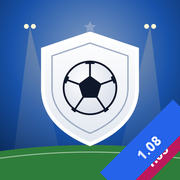
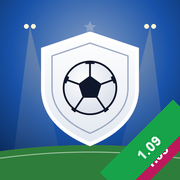
1.09

Changed region(s): [[0.5556, 0.5556, 1.0, 1.0]]

diff --git a/js/match.js b/js/match.js
@@ -92,7 +92,7 @@
     const home = M.my === 0;
     host().innerHTML = `<div class="pre"><div class="prehd"><small>${label(f)} · ${w[0]} ${w[1]} · 👥 ${M.att.toLocaleString()}</small>
         <div class="vsrow"><div>${C.crestSVG(col.c1, col.c2, col.abbr.slice(0, 2), 54)}<b>${C.esc(col.short)}</b><small>${home ? 'Home' : 'Away'}</small></div><span class="vsx">VS${(k => `<em class="rtcmp ${k.c}">${k.me} v ${oppT.rating}<br>${k.w}</em>`)(C.rateCmp(oppT.rating))}</span><div>${C.crestSVG(oppT.c1, oppT.c2, oppT.abbr.slice(0, 2), 54)}<b>${C.esc(oppT.name)}</b><small>${C.table()[0].p ? C.ord(C.table().findIndex(x => x.i === (home ? f.a : f.h)) + 1) + ' in table' : 'Season opener'}</small></div></div>
-        <div class="radio">${C.radioLine && C.radioLine(f) ? C.radioLine(f) : `📻 K${col.abbr} campus radio with Duane &amp; Bev`}</div></div>${C.bigMatchHTML ? C.bigMatchHTML(f) : ''}
+        <div class="radio">${C.radioLine && C.radioLine(f) ? C.radioLine(f) : `📻 K${col.abbr} campus radio with Duane &amp; Bev`}</div></div>${C.bigMatchHTML ? C.bigMatchHTML(f) : ''}${C.scoutHTML ? C.scoutHTML(f) : ''}
       ${xs.filter(p => p.energy < 50).length ? `<div class="tiredw">⚠ ${xs.filter(p => p.energy < 50).length} of your XI are under 50% Freshness (avg ${avgE}%). Rest them this match, or <button class="btn sm2 pri" data-act="rejuv">🧴 Rejuvenate</button></div>` : ''}
       <div class="lus"><div><h4>${t.form} · ${C.MENTALITY[t.ment]}</h4>${mineRows}</div><div><h4>${M.opp.form}</h4>${oppRows}</div></div>
       <div class="prebtns"><button class="btn sec2" data-act="mtac"><i class="xoi"></i> Tactics</button><button class="btn sec2" data-act="mquick">⏩ Quick result</button><button class="btn sec2" data-act="mleave">✕</button></div>
@@ -121,7 +121,7 @@
     C.simToEnd(M.m); finishUI();
   };
   // the same options for watched and quick matches, so both give the same result; the game profile follows the career (men's or women's)
-  function matchOpts() { return { knockout: !!M.f.ko, managedPens: true, gender: C.car().gender, trace: !!M.debug, med: [C.level('med') * (M.my === 0 ? 1 : 0), C.level('med') * (M.my === 1 ? 1 : 0)], edge: M.my === 1 ? .04 * (1 - C.travelCut(C.eff('transport')) / 100) : .04 }; }
+  function matchOpts() { return { knockout: !!M.f.ko, managedPens: true, gender: C.car().gender, trace: !!M.debug, med: [C.level('med') * (M.my === 0 ? 1 : 0), C.level('med') * (M.my === 1 ? 1 : 0)], edge: M.my === 1 ? .04 * (1 - C.travelCut(C.eff('transport')) / 100) : (1 + .2 * C.eff('stadium')) / 100 }; }   // 1.09: the Stadium's home advantage, by level
   function rate() { const m = M.m, b = m.ball, my = M.my; const near = Math.min(b.y, PL - b.y) < 30 || (b.fl && b.fl.type !== 'pass');
     return M.speed === .25 ? 1 : M.speed === 1 ? (near ? 2.3 : 5.5) : M.speed === 5 ? 17 : 34; }
   function loop(now) {
@@ -182,7 +182,7 @@
   C.redForm = f => { C.reshape(M.m, M.my, f); M.redOff = -1; C.$$('.rcf button').forEach(b => b.classList.toggle('pri', b.dataset.v === f)); const n = C.$('#rpitch'); if (n) n.innerHTML = C.livePitchSVG(M.my, -1); };
   C.redGo = () => { const n = C.$('#redc'); if (n) n.remove(); M.playing = true; };
   function say(t) { if (!t) return; const n = C.$('#tick'); if (n) { n.textContent = t; n.classList.remove('tpop'); void n.offsetWidth; n.classList.add('tpop'); } }
-  function feed(e) { const n = C.$('#mfeed'); if (!n) return; const ic = { goal: '⚽', yellow: '🟨', red: '🟥', injury: '🩹', sub: '🔁', penalty: '🎯' }[e.type];
+  function feed(e) { if (e.type === 'sub') updPend(); const n = C.$('#mfeed'); if (!n) return; const ic = { goal: '⚽', yellow: '🟨', red: '🟥', injury: '🩹', sub: '🔁', penalty: '🎯' }[e.type];
     const who = e.who ? C.sn(e.who.p) : '', mine = e.side === M.my;
     const txt = `${C.esc(who)}${e.type === 'sub' && e.extra && e.extra.off ? ' for ' + C.esc(e.extra.off.p.ln) : ''}`;   // 1.06 (QA-77): home on the left, away on the right (as the score bar)
     n.insertAdjacentHTML('afterbegin', e.side === 1 ? `<div class="r ${mine ? 'me' : ''}">${txt} ${ic} <b>${e.min}'</b></div>` : `<div class="${mine ? 'me' : ''}"><b>${e.min}'</b> ${ic} ${txt}</div>`); }
@@ -207,7 +207,7 @@
       <div class="pitchw"><canvas id="pitch"></canvas></div><div class="tick" id="tick"></div>
       <div class="mkey"><span>${sw(K[M.my])} <b>${C.esc(T[M.my].short)}</b> (you) <span id="mdir">attack ▲</span></span><span>${sw(K[1 - M.my])} ${C.esc(T[1 - M.my].short)}</span></div>
       <div class="spd spd9"><button class="mplay ${M.playing ? '' : 'paused'}" data-act="mpause" id="mpz" aria-label="Play or pause">${M.playing ? '⏸' : '▶'}</button>${[[.25, '1×'], [1, '5×'], [5, '10×'], [10, '20×']].map(([v, n]) => `<button class="${M.speed === v ? 'on' : ''}" data-act="mspeed" data-v="${v}">${n}</button>`).join('')}<button class="anl ${M.debug ? 'on' : ''}" data-act="mdebug" title="Show passes, shots and lines"><svg viewBox="0 0 24 24" width="18" height="18"><path d="M4 19V5M4 19h16" stroke="#fff" stroke-width="2" stroke-linecap="round"/><path d="M7 15l4-5 3 3 5-6" fill="none" stroke="#22d3ee" stroke-width="2.4" stroke-linecap="round" stroke-linejoin="round"/></svg><small>Analysis</small></button><button data-act="mskip" data-v="ht" ${m.half > 1 ? 'disabled' : ''}>⏭ HT</button><button data-act="mskip" data-v="ft">⏭ FT</button></div>
-      <div class="mbtns9"><button class="btn sm2" data-act="msubs">🔁 Subs</button><button class="btn sm2" data-act="mment"><i class="xoi"></i> Plan</button></div><div class="mfeed" id="mfeed"></div><div class="mcd" id="mcd"></div>
+      <div id="subpend">${C.pendingSubsHTML ? C.pendingSubsHTML(M.m) : ''}</div><div class="mbtns9"><button class="btn sm2" data-act="msubs">🔁 Subs</button><button class="btn sm2" data-act="mment"><i class="xoi"></i> Plan</button></div><div class="mfeed" id="mfeed"></div><div class="mcd" id="mcd"></div>
       <div class="pend" id="mpend"></div></div>`;
     sizeCanvas();
   }
@@ -309,6 +309,9 @@
 
   // ---------- substitutions (Q20f) ----------
   C.openSubs = (hurtE) => { if (M.playing && !M.m.ht) M.resumeAfter = true; M.playing = false; M.pickOut = hurtE ? M.m.ents.indexOf(hurtE) : null; C.ui.open('Substitutions', () => subsHTML(hurtE)); };
+  C.matchMySide = () => M ? M.my : 0;
+  const updPend = () => { const n = C.$('#subpend'); if (n && M && M.m) n.innerHTML = C.pendingSubsHTML ? C.pendingSubsHTML(M.m) : ''; };
+  C.subCancel = i => { if (!M || !M.m) return; M.m.pending.splice(i, 1); updPend(); C.ui.refresh(); C.toast('Sub cancelled'); };
   function subsHTML(hurtE) {
     const m = M.m, my = M.my, T = m.teams[my], on = m.ents.filter(e => e.side === my && e.on);
     const pool = T.bench.concat(m.ents.filter(e => e.side === my && !e.on && !e.red && !e.injured).map(e => e.p)).filter((p, i, a) => a.indexOf(p) === i && C.canBringOn(m, my, p) && !m.pending.some(s => s.inP === p));
@@ -319,13 +322,13 @@
     else { const pos = out.slot.pos, ranked = pool.map(p => [p, C.fit(p, pos) * 100 + p.rating + p.energy / 10]).sort((a, b) => b[1] - a[1]);
       body = `<div class="subout"><span>Coming off</span><b>${C.esc(out.p.fn)} ${C.esc(out.p.ln)}</b><span class="pchip" style="background:var(--school)">${pos}</span><button class="btn sm2 sec2" data-act="msout" data-v="">Change</button></div>
         <label class="fld">2. Who comes on at ${pos}?</label>` + (ranked.length ? ranked.map(([p], i) => row(p, 'msin', p.id, `<span class="pchip" style="background:${FIT[C.fit(p, pos)]}">${p.pos}</span> ${C.FITLABEL[C.fit(p, pos)]} at ${pos} · 🔋 ${Math.round(p.energy)}%`, i < 2 && C.fit(p, pos) >= 3)).join('') : '<p class="note">Nobody left on the bench.</p>'); }
-    return `${hurtE ? `<div class="card" style="background:#fee2e2;color:#991b1b;font-weight:800">🩹 ${C.esc(hurtE.p.fn + ' ' + hurtE.p.ln)} is hurt. Choose a replacement.</div>` : ''}
+    return `${C.pendingSubsHTML ? C.pendingSubsHTML(m) : ''}${hurtE ? `<div class="card" style="background:#fee2e2;color:#991b1b;font-weight:800">🩹 ${C.esc(hurtE.p.fn + ' ' + hurtE.p.ln)} is hurt. Choose a replacement.</div>` : ''}
       <p class="note" style="margin-top:6px">College rules: unlimited changes. A player taken off in the first half can come back once in the second.</p>${body}
       <button class="btn full sec2" data-act="back" style="margin-top:10px">Back to the match</button>`;
   }
   C.subOut = idx => { M.pickOut = idx === '' || idx == null ? null : +idx; C.ui.refresh(); };
   C.subIn = id => { const m = M.m, e = m.ents[M.pickOut], T = m.teams[M.my], pool = T.bench.concat(m.ents.filter(x => x.side === M.my && !x.on).map(x => x.p)), p = pool.find(x => x.id === id);
-    if (p && e) { C.queueSub(m, M.my, e, p); C.toast(`🔁 Sub made: ${e.p.ln} off, ${p.ln} on (at the next stoppage)`); }
+    if (p && e) { C.queueSub(m, M.my, e, p); C.toast(`🔁 Sub made: ${e.p.ln} off, ${p.ln} on (at the next stoppage)`); updPend(); }
     M.pickOut = null; C.ui.back(); };
 
   // ================= full time =================

diff --git a/js/b109.js b/js/b109.js
@@ -1,0 +1,62 @@
+// Club FC 1.09 (SCOPE_1.09; QA-107 to QA-112): the interim 1.08 feedback. Loaded after cycle.js, before main.js.
+(function (C) {
+  const A = C.ACTS;
+
+  // ---------- QA-109: no First Week; a bonus for completing Pre-season ----------
+  C.fwActive = () => false;
+  C.fwMailUnclaimed = () => {};
+  const PRE_BONUS = { gold: 200, cash: 10000, sp5: 12, cp: 100 };
+  const oSs = A.startseasonok;
+  A.startseasonok = (...a) => { const car0 = C.car(), first = car0 && car0.pre && car0.season === 1 && !car0.preLite && !car0.preBonus; const r = oSs(...a); const car = C.car();
+    if (first && car && !car.pre) { car.preBonus = 1; C.mail('rewards', '🎉', 'Pre-season complete: your bonus', 'Pre-season done, Coach: the campus is built, the staff hired and the squad ready. Here is your bonus for the season ahead.', Object.assign({}, PRE_BONUS)); C.save(); C.toast('🎉 Pre-season bonus: claim it in the Inbox'); }
+    return r; };
+
+  // ---------- QA-110: all 4 coach slots from day 1 ("Empty", not "Free"); the paid slot retires ----------
+  C.staffSlotOpen = () => true;
+  const oStaff = C.staffHTML;
+  C.staffHTML = () => { let h = oStaff(); const on = C.onStaff();
+    // coaches fill the slots in order; the rest are Empty
+    h = h.replace(/<div class="sslots">[\s\S]*?<\/div>/, m => m); return h.replace(/<b>Free<\/b>/g, '<b>Empty</b>'); };
+  C.ACTS.sslotinfo = () => C.toast('Every coach slot is open: assign a coach');
+  // one-time refund for anyone who bought the retired $2.99 Extra staff slot
+  C.staffRefund = () => { const a = C.acct(); if (a.sslot3 && !a.sslot3Ref && C.car()) { a.sslot3Ref = 1; C.mail('purchases', '🧾', 'Refund: Extra staff slot', 'Every program now has 4 coach slots from day 1, so the Extra staff slot has been retired. Its value comes back to you in Coins.', { gold: 300 }); C.save(); } };
+
+  // ---------- QA-107: recruit missions count from the start of a new career ----------
+  const oRec = C.recMission;
+  C.recMission = () => { const M = C.meta(), car = C.car(); if (!M.rq && car && car.season === 1 && car.pre) { const open = C.rosterCap(car) - car.squad.length + ((car.rec && car.rec.signed) || 0); M.rq = { base: 0, step: 0, goal: Math.max(0, open), done: open <= 0 }; } return oRec(); };
+
+  // ---------- QA-108: in Pre-season the Coaches' Office Lv 5 task steps through the buildings it needs ----------
+  const oStrip = C.stripTask;
+  C.stripTask = () => { const car = C.car(); if (car && car.pre && C.preNext) { const t = C.preNext(); if (t && t[0] === 'hq5' && C.gateStep) { const g = C.gateStep(5); if (g && g.k) return { text: g.text, go: () => C.goToBuilding(g.k) }; } } return oStrip(); };
+
+  // ---------- QA-111: a sub waiting for a stoppage is shown, with Cancel ----------
+  C.pendingSubsHTML = m => { if (!m || !m.pending) return ''; const L = m.pending.filter(s => s.side === (C.matchMySide ? C.matchMySide() : 0));
+    return L.map((s, i) => `<div class="subpend">🔁 Coming on at the next stoppage: <b>${C.esc(s.inP.fn[0] + '. ' + s.inP.ln)}</b> for <b>${C.esc(s.outE.p.fn[0] + '. ' + s.outE.p.ln)}</b> <button class="btn sm2 sec2" data-act="subcancel" data-v="${m.pending.indexOf(s)}">Cancel</button></div>`).join(''); };
+
+  // ---------- QA-112: shirt numbers ----------
+  const holderOf = n => C.car().squad.find(q => q.num === n);
+  // a wish is "on hold" when the number belongs to a better-rated player
+  C.wishOnHold = p => { if (!p.want || p.want === p.num) return false; const h = holderOf(p.want); return !!(h && h.id !== p.id && h.rating > p.rating); };
+  C.wishActive = p => !!(p.want && p.want !== p.num && !C.wishOnHold(p));
+  // a cherished number (wanted and got) can't be given to a lower-rated player
+  C.numBlocked = (p, n) => { const h = holderOf(n); return !!(h && h.id !== p.id && h.want === n && h.rating > p.rating); };
+  // after each of your matches: an unmet wish costs 2 morale, at most 8 in all
+  const oApply = C.applyResult;
+  C.applyResult = (m, f) => { const rep = oApply(m, f); C.car().squad.forEach(p => { if (C.wishActive(p)) { const pen = p.wishPen || 0; if (pen < 8) { p.wishPen = pen + 2; p.morale = Math.max(10, (p.morale || 60) - 2); } } }); C.save(); return rep; };
+  // 1.09: the Academic Center's morale after each match (+0.1 a level)
+  const oApply2 = C.applyResult; C.applyResult = (m, f) => { const rep = oApply2(m, f), a = C.eff('academic') * .1; if (a) C.car().squad.forEach(p => { p.morale = Math.min(100, (p.morale || 60) + a); }); return rep; };
+  // 1.09: the Analysis Suite's opponent report (formation, the players to watch, the weak line) before every match
+  C.scoutHTML = f => { if (!f || !C.eff('video')) return ''; const Se = C.sea(), ti = f.h === 0 ? f.a : f.h; let T; try { T = C.oppTeam(ti); } catch (e) { return ''; }
+    const top = T.xi.slice().sort((a, b) => b.rating - a.rating).slice(0, 2), line = g => { const l = T.xi.filter(p => C.POSGROUP(p.pos) === g); return l.length ? l.reduce((s, p) => s + p.rating, 0) / l.length : 99; };
+    const weak = [['def', 'defense'], ['mid', 'midfield'], ['fwd', 'attack']].sort((a, b) => line(a[0]) - line(b[0]))[0];
+    return `<div class="scout"><b>📄 Analysis Suite report · Lv ${C.eff('video')}</b><small>They play ${T.form}. Watch ${top.map(p => `${C.esc(p.fn[0] + '. ' + p.ln)} (${p.pos} ${p.rating})`).join(' and ')}. Weakest line: their ${weak[1]}. Your edge: +${(C.eff('video') * .1).toFixed(1)}% shooting, defending and passing.</small></div>`; };
+  // giving the wanted number lifts the penalty at once
+  const oSet = C.giveNumber; if (oSet) C.giveNumber = (pid, n) => { const p = C.P(pid); if (p && C.numBlocked(p, n)) return 'cherished'; const r = oSet(pid, n); if (r === 'ok' && p && p.want === n && p.wishPen) { p.morale = Math.min(100, p.morale + p.wishPen); p.wishPen = 0; C.save(); } return r; };
+  const oSwap = C.swapNumber; if (oSwap) C.swapNumber = (pid, n) => { const p = C.P(pid); if (p && C.numBlocked(p, n)) return 'cherished'; const r = oSwap(pid, n); if (p && p.num === n && p.want === n && p.wishPen) { p.morale = Math.min(100, p.morale + p.wishPen); p.wishPen = 0; C.save(); } return r; };
+  const oNP = A.numpick; A.numpick = v => { const [id, ns] = String(v).split('|'), p = C.P(id), h = holderOf(+ns); if (p && C.numBlocked(p, +ns)) return C.toast(`No. ${ns} is ${C.sn(h)}'s cherished number: only a better-rated player can take it`); return oNP(v); };
+  A.subcancel = i => { if (C.subCancel) C.subCancel(+i); };
+  // "Ask to choose another": they pick a free number they like; a one-off −2
+  A.numother = id => { const p = C.P(id), car = C.car(); if (!p || !p.want) return; const used = new Set(car.squad.map(q => q.num)), likes = (C.LIKES && C.LIKES[p.pos]) || [];
+    const pick = likes.find(n => !used.has(n) && n !== p.want) || [...Array(99).keys()].map(i => i + 1).find(n => !used.has(n));
+    if (pick) { p.morale = Math.max(10, (p.morale || 60) - 2 + (p.wishPen || 0)); p.wishPen = 0; p.want = pick; C.save(); C.toast(`${C.sn(p)} would now like No. ${pick}`); C.ui.refresh(); C.render(); } };
+})(window.CFC);

diff --git a/js/data.js b/js/data.js
@@ -93,7 +93,7 @@
   C.BUILDINGS = {
     hq: { name: "Coaches' Office", icon: '🏛', owner: 'program', start: 0, mult: 1.6,
       desc: 'Your headquarters. Its level caps every other building and unlocks slots. It earns nothing itself.',
-      stats: l => [['🧱', 'Building cap', 'Lv ' + l], ['🧢', 'Staff slots', l >= 5 ? '+1 earned' : 'Lv 5: +1']] },
+      stats: l => [['🧱', 'Building cap', 'Lv ' + l], ['🧢', 'Coach slots', '4, all open']] },
     stadium: { name: 'Stadium', icon: '🏟', owner: 'school', start: 0, mult: 1.3,
       desc: 'Seats, gate income and home advantage. Bigger crowds, louder atmosphere.',
       stats: l => [['seat', 'Seats', seats(l).toLocaleString()], ['💵', 'Gate income / home game', C.money(seats(l) * 3)], ['📣', 'Home advantage', pct(1 + .2 * l)]] },
@@ -104,23 +104,23 @@
       desc: 'Strength and conditioning: faster energy recovery and fewer injuries.',
       stats: l => [['🔋', 'Freshness recovery', '+' + pct(1.5 * l)], ['🩹', 'Injury chance', '−' + pct(l)]] },
     med: { name: 'Sports Medicine', icon: '🩺', owner: 'program', start: 0, mult: 1.1,
-      desc: 'Faster recovery from injuries, and free recovery items each day.',
-      stats: l => [['⏱', 'Injury recovery', '+' + pct(3 * l)], ['💊', 'Recovery items / day', 1 + Math.floor(l / 5)]] },
+      desc: 'Faster recovery from injuries, and physio and team sessions after matches.',
+      stats: l => [['⏱', 'Chance of a faster injury recovery', pct(3 * l)], ['🩺', 'Physio sessions', '+1 every ' + Math.max(1, Math.round(3 - l / 10)) + ' match' + (Math.max(1, Math.round(3 - l / 10)) > 1 ? 'es' : '')], ['👥', 'Team sessions', '+1 every ' + Math.max(1, 3 - Math.floor(l / 10)) + ' match' + (Math.max(1, 3 - Math.floor(l / 10)) > 1 ? 'es' : '')]] },
     lab: { name: 'Performance Lab', icon: '🔬', owner: 'program', start: 0, mult: 1.15,
       desc: 'Sports science and data. Produces Coaching Points for your Playbook.',
       stats: l => [['<i class="cpi"></i>', 'Coaching Points / hour', C.prod.lab(l)], ['🔬', 'Research speed', '+' + pct(l)]] },
     recruit: { name: 'Recruiting Office', icon: '✉', owner: 'program', start: 0, mult: 1.15,
       desc: 'More applications, sharper scouting and more campus jobs to offer recruits.',
-      stats: l => [['📨', 'Applications / day', 3 + l], ['🔍', 'Rating range', '±' + Math.max(1, 4 - Math.floor(l / 3))], ['💼', 'Campus jobs / season', 2 + Math.floor(l / 3)]] },
+      stats: l => [['📨', 'Applications / day', 3 + l], ['🔍', 'Rating range', '±' + Math.max(1, 4 - Math.floor(l / 3))], ['💼', 'Campus job places', 2 + Math.floor(l / 3)]] },
     video: { name: 'Analysis Suite', icon: '🎞', owner: 'program', start: 0, mult: 1.15,
-      desc: "Coaches' film and opponent analysis. Opponent reports arrive in a later update.",   // 1.03: listed effects weren't applied; the card shows only the truth
-      stats: l => [['📄', 'Opponent reports', 'Coming in a later update']] },
+      desc: "Coaches' film and opponent analysis: a report before every match, and an edge against the side you scouted.",   // 1.03: listed effects weren't applied; the card shows only the truth
+      stats: l => [['📄', 'Opponent report', l ? 'Before every match' : '—'], ['🎯', 'Shooting, defending, passing v the scouted side', '+' + pct(.1 * l)]] },
     media: { name: 'Media Center', icon: '📡', owner: 'school', start: 0, mult: 1.1,
       desc: 'Broadcasts and streams your matches, and gets the program noticed. Earns money after every home match and adds Reputation for every win.',
       stats: l => [['📺', 'Broadcast money / home match', C.money(C.broadcastPay(l, false, C.car ? (C.car() || {}).tier || 5 : 5))], ['🏆', 'After a win', '×1.5'], ['⭐', 'Reputation from wins', '+' + pct(C.mediaRep(l))]] },
     dorms: { name: 'Dorms', icon: '🏠', owner: 'school', start: 0, mult: 1.1,
       desc: 'Campus life: bigger roster and more appeal to recruits.',
-      stats: l => [['👕', 'Roster size', Math.min(28, 24 + Math.ceil(l / 3))], ['💛', 'Recruit appeal', '+' + pct(l)]] },
+      stats: l => [['👕', 'Roster size', Math.min(28, 24 + Math.ceil(l / 3))], ['🏠', 'Housing places', 1 + Math.floor(l / 3)], ['💛', 'Recruit appeal', '+' + pct(l)]] },
     academic: { name: 'Academic Center', icon: '📚', owner: 'school', start: 0, mult: 1.2,
       desc: "Every player's package, grades and wellbeing in one place. Support here keeps players happy and impresses recruits.",
       stats: l => [['📚', 'Academic aid', '+' + pct(l)], ['😀', 'Morale after each match', '+' + (l * .1).toFixed(1)], ['🚪', 'Transfer portal risk', '−' + pct(Math.min(30, l * 1.5))], ['💛', 'Recruit interest', '+' + l]] },
@@ -137,8 +137,8 @@
       desc: 'Team meals and a fueling station. Players grow stronger and faster, and feel better after matches.',
       stats: l => [['💪', 'Pace and Physical growth', '+' + pct(C.physGrowth(l))], ['😀', 'Morale after each match', '+' + C.nutMorale(l).toFixed(2)]] },
     skills: { name: 'Skills Field', icon: '🎯', owner: 'school', start: 0, mult: 1.0,
-      desc: 'Home of the skills mini-games (coming later): more free tries each day.',
-      stats: l => [['🎯', 'Free mini-game tries / day', 3 + Math.floor(l / 3)]] }
+      desc: 'Skills sessions: finished training plans can earn an extra point.',
+      stats: l => [['🎯', 'Chance of an extra point from a training plan', pct(2 * l)]] }
   };
 
   // Unlocks (9q, FEEDBACK 84): a new career starts with blank plots; the Coaches' Office is built first, then 7 more.

diff --git a/js/meta.js b/js/meta.js
@@ -439,7 +439,7 @@
         ${C.piggyHTML ? C.piggyHTML() : ''}<h3 class="jh">Weekly deals <small class="devp">${fmt(new Date(weekKey()))} – ${fmt(wkEnd() - 1)}</small></h3>
         ${WEEKLY.map(w => { const n = M.wbuy[w.id] || 0, left = w.lim - n; return `<div class="pack"><div class="pkh"><b>${w.icon} ${w.name}</b><span class="ptag t-${w.tag.toLowerCase()}">${w.tag}</span></div>${C.itemTiles(w.r)}<div class="packft"><small>${left} of ${w.lim} purchase${w.lim > 1 ? 's' : ''} left</small><button class="btn sm2 ${left ? 'pri' : 'sec2'}" data-act="buyweekly" data-v="${w.id}" ${left ? '' : 'disabled'}>${left ? w.price : 'Sold out'}</button></div></div>`; }).join('')}
         ${row('buypack', 'starter', '🎒', 'Starter Pack', 'Once only', '$1.99', L.cos.includes('starter'), C.PACKS.starter.r)}`; }
-    if (stTab === 'passes') body = `${C.cpp && C.cpp() ? (n => `<button class="passcard" data-act="passopen"><span>🎓</span><span><b>Career Progression Pass</b><small>Rewards · Daily Tasks · Target Tasks${C.cpp().closed ? ' · ended' : ''}</small></span>${n ? `<i class="mdot">${n}</i>` : ''}<em>›</em></button>`)(C.cppClaimable()) : '<p class="note">The Career Progression Pass starts with the season.</p>'}<div class="vipcard"><b>👑 Coach's Club</b><p>+1 training slot · +1 staff slot · +1 career slot · 25 Coins a day</p>
+    if (stTab === 'passes') body = `${C.cpp && C.cpp() ? (n => `<button class="passcard" data-act="passopen"><span>🎓</span><span><b>Career Progression Pass</b><small>Rewards · Daily Tasks · Target Tasks${C.cpp().closed ? ' · ended' : ''}</small></span>${n ? `<i class="mdot">${n}</i>` : ''}<em>›</em></button>`)(C.cppClaimable()) : '<p class="note">The Career Progression Pass starts with the season.</p>'}<div class="vipcard"><b>👑 Coach's Club</b><p>+1 training slot · +1 career slot · 25 Coins a day</p>
         <button class="btn full ${vip ? 'sec2' : 'pri'}" data-act="buy" data-v="vip">${vip ? 'Active · ' + Math.ceil((a.vipUntil - C.now()) / 864e5) + ' days left (extend +30)' : 'Join · $4.99 / month'}</button></div>
       <h3 class="jh">${C.curEvent().th.icon} ${C.curEvent().th.name}</h3><button class="lrow" data-act="evopen"><span class="li">${C.curEvent().th.icon}</span><span class="lt"><b>Event packs</b><small>$4.99, then $9.99: open the premium tracks</small></span><span class="lr">›</span></button>`;
     if (stTab === 'coins') body = ['g100', 'g550', 'g1200'].map(k => row('buypack', k, '<i class="coin"></i>', C.PACKS[k].name, 'Speed-ups, coaching searches, agency scouts', C.PACKS[k].price, false, C.PACKS[k].r)).join('');
@@ -448,7 +448,7 @@
       <h3 class="jh">Builders</h3>${C.builderPacksHTML()}
       <h3 class="jh">Booster Crates</h3>${['crR', 'crE', 'crL'].map(k => row('buypack', k, '📦', C.PACKS[k].name, `${C.CRH[C.PACKS[k].r && Object.keys(C.PACKS[k].r)[0]]} h of Clubhouse output, sized when opened`, C.PACKS[k].price, false, C.PACKS[k].r)).join('')}
       <h3 class="jh">CP Crates</h3>${['cpR', 'cpE', 'cpL'].map(k => row('buypack', k, '🧪', C.PACKS[k].name, `${C.CRH[Object.keys(C.PACKS[k].r)[0]]} h of Performance Lab output, sized when opened`, C.PACKS[k].price, false, C.PACKS[k].r)).join('')}
-      <h3 class="jh">Permanent slots</h3>${row('buy', 'tslot3', '🏋', 'Extra training slot', 'A permanent 3rd training-plan slot', '$2.99', a.tslot3)}${row('buy', 'sslot3', '🧑🏫', 'Extra staff slot', 'A permanent 3rd coach on duty', '$2.99', a.sslot3)}
+      <h3 class="jh">Permanent slots</h3>${row('buy', 'tslot3', '🏋', 'Extra training slot', 'A permanent 3rd training-plan slot', '$2.99', a.tslot3)}
       ${row('buy', 'tokens', '🎟', '3 Number Changes', 'Give players the number they want', '$0.99')}
       <h3 class="jh">Kits (cosmetic)</h3>${Object.keys(C.KITS).map(k => row('kit', k, C.KITS[k][0], C.KITS[k][1], C.kit() === k ? 'Wearing now' : L.cos.includes('kit_' + k) || k === 'classic' ? 'Owned: tap to wear' : 'Changes how your team looks, nothing else', C.KITS[k][2] || 'Free', false)).join('')}`;
     return `<div class="res hres inv">${C.resBar()}</div>${tabs}${test}${body}<div class="card fair"><b>⚖ Fair play promise</b><p>Money buys time and convenience, never results. No paid match wins, no attribute points past a player's potential, no buying players directly.</p></div>`;

diff --git a/js/squad.js b/js/squad.js
@@ -13,7 +13,7 @@
     let line = '', issue = null;
     if (st && st.k === 'no') { line = "Coach, I'm not getting the games I was promised."; issue = 'promise'; }
     else if (st && st.k === 'risk') { line = "Coach, you promised me minutes. I need to play more."; issue = 'promise'; }
-    else if (p.want && p.want !== p.num) { line = `Coach, I'd love to wear No. ${p.want}.`; issue = 'num' + p.want; }
+    else if (p.want && p.want !== p.num && !(C.wishOnHold && C.wishOnHold(p))) { line = `Coach, I'd love to wear No. ${p.want}.`; issue = 'num' + p.want; }
     else if (!p.promise && n >= 4 && apps / n < .3 && !p.inj) { line = "I'd like more minutes, Coach."; issue = 'mins'; }
     else if (p.inj) line = "I'm working hard to get back, Coach.";
     else if (p.morale < 45) line = "I'm not enjoying it here right now.";
@@ -117,8 +117,9 @@
       <h3 class="jh">Development ${STARS(p.stars)} <small class="devp">${p.stars >= 5 ? 'all 5 stars' : `${p.dev}/${p.stars + 2} plans to next ★`}</small></h3>${devHTML}${C.gearRowHTML ? C.gearRowHTML(p) : ''}
       <h3 class="jh">Squad number</h3>
       <div class="card numcard"><svg class="jersey" viewBox="0 0 60 60"><path d="M18 6 L24 4 Q30 9 36 4 L42 6 L56 14 L50 26 L44 23 V56 H16 V23 L10 26 L4 14Z" fill="${kitOf(p).k1}" stroke="${kitOf(p).k2}" stroke-width="1.5"/><text x="30" y="44" text-anchor="middle" font-family="Graduate,serif" font-size="20" fill="${kitOf(p).k2}">${p.num}</text></svg>
-        <div style="flex:1"><b style="font-size:15px">Wears No. ${p.num}</b><br><small class="mutey">${p.want ? (p.want === p.num ? 'Their favourite number · 😀' : `Wants No. ${p.want} · morale lower until they get it`) : 'No preference'}</small></div>
+        <div style="flex:1"><b style="font-size:15px">Wears No. ${p.num}</b><br><small class="mutey">${p.want ? (p.want === p.num ? 'Their cherished number · 😀' : C.wishOnHold && C.wishOnHold(p) ? `Would like No. ${p.want} when it's free` : `Wants No. ${p.want} · −2 morale a match until they get it (at most −8)`) : 'No preference'}</small></div>
         <button class="btn sm2" data-act="numbers" data-v="${id}">Change</button></div>
+      ${p.want && p.want !== p.num ? (C.wishOnHold && C.wishOnHold(p) ? `<p class="note" style="margin:8px 0 0">⏸ No. ${p.want} belongs to a better-rated player, so this wish is on hold: no morale hit. They'll ask again when it's free.</p>` : `<button class="btn full sec2" data-act="numother" data-v="${id}" style="margin-top:8px">Ask to choose another number (morale −2 once)</button>`) : ''}
       ${p.want && p.want !== p.num ? `<button class="btn full sec2" data-act="numpick" data-v="${id}|${p.want}" style="margin-top:8px">Give No. ${p.want} (🎟 1)${car.squad.some(x => x.num === p.want) ? ' · worn by ' + C.esc(C.sn(car.squad.find(x => x.num === p.want))) : ''}</button>` : ''}
       ${(p.honors || []).length ? `<div class="card phon">${p.honors.map(h => `<span>🏅 ${C.esc(h.t)} <small>S${h.s}</small></span>`).join('')}</div>` : ''}
       ${p.rs ? `<div class="card mrs">🩹 <b>Medical redshirt</b>: a season-ending injury, so this season doesn't count. ${C.sn(p)} stays a ${['', 'Freshman', 'Sophomore', 'Junior', 'Senior', '5th-year'][p.year]} next season.</div>` : ''}

diff --git a/js/players.js b/js/players.js
@@ -54,7 +54,7 @@
     while (p.sec.length < 2 && near.length) p.sec.push(near.shift()); };
 
   // ---------- numbers (Q29) ----------
-  const LIKES = { GK: [1, 12, 23], CB: [4, 5, 3], LB: [3], RB: [2], DM: [6], CM: [8, 14, 16], LM: [11, 7], RM: [7], AM: [10], LW: [11, 7], RW: [7, 11], ST: [9, 10] };
+  const LIKES = C.LIKES = { GK: [1, 12, 23], CB: [4, 5, 3], LB: [3], RB: [2], DM: [6], CM: [8, 14, 16], LM: [11, 7], RM: [7], AM: [10], LW: [11, 7], RW: [7, 11], ST: [9, 10] };
 
   // ---------- generation ----------
   C.genPlayer = (r, { gender, pos, rating, rar = 0, year = 1, pool }) => {
@@ -112,7 +112,7 @@
     for (const p of order) if (!p.num && p.want && !used.has(p.want)) { p.num = p.want; used.add(p.want); }
     // classic numbers first; anyone left over gets 12 upwards, so a defender's number never lands on a striker (round 5)
     for (const p of order) if (!p.num) { const pref = (LIKES[p.pos] || []).find(n => !used.has(n)); let n = pref != null ? pref : 12; while (used.has(n)) n++; p.num = n; used.add(n); }
-    for (const p of sq) if (p.want && p.num !== p.want) p.morale = Math.min(p.morale, 64);
+    // 1.09 (QA-112): an unmet wish now costs 2 morale a match, at most 8 (b109.js), not a fixed cap
   };
 
   // one-off tidy (9g): clear numbers that don't suit the position (a no. 3 up front, a no. 0), unless the player asked for it
@@ -171,7 +171,7 @@
     const done = car.devq.filter(q => q.end <= C.now()), msgs = [];
     for (const q of done) { const p = C.P(q.pid); if (!p) continue;
       if (q.focus.startsWith('pos:')) { const pos = q.focus.slice(4); p.fitB[pos] = Math.min(3, (p.fitB[pos] || 0) + 1); msgs.push(`${p.ln} is more comfortable at ${pos}`); }
-      else { const k = q.focus, g = p.year <= 2 ? 2 : 1; p.a[k] = Math.min(C.attrCap(p, k), p.a[k] + g); const old = p.rating; p.rating = C.calcRating(p); p.up = p.rating - old; msgs.push(`${p.ln}: ${C.attrsOf(p)[k][1]} +${g}${p.rating > old ? ` · rating ${p.rating}` : ''}`); }
+      else { const k = q.focus, g = (p.year <= 2 ? 2 : 1) + (Math.random() < C.eff('skills') * .02 ? 1 : 0); p.a[k] = Math.min(C.attrCap(p, k), p.a[k] + g); const old = p.rating; p.rating = C.calcRating(p); p.up = p.rating - old; msgs.push(`${p.ln}: ${C.attrsOf(p)[k][1]} +${g}${p.rating > old ? ` · rating ${p.rating}` : ''}`); }   // 1.09: Skills Field extra development
       p.dev++; if (p.stars < 5 && p.dev >= p.stars + 2) { p.dev = 0; p.stars++; p.pot = Math.min(95, p.pot + 1); C.KEY[p.pos].forEach(k => p.a[k] = Math.min(99, p.a[k] + 1)); p.rating = C.calcRating(p); msgs.push(`⭐ ${p.ln} earned a Development Star`); }
     }
     if (done.length) { car.devq = car.devq.filter(q => q.end > C.now()); C.save(); }

diff --git a/js/screens.js b/js/screens.js
@@ -499,14 +499,14 @@
   C.openStore = () => C.ui.open('Store', () => {
     const a = C.acct(), vip = C.isVip(), L = C.lo(), row = (act, v, icon, name, sub, price, owned) => `<button class="lrow ${owned ? 'lock' : ''}" data-act="${act}" data-v="${v}"><span class="li">${icon}</span><span class="lt"><b>${name}</b><small>${sub}</small></span><span class="lr">${owned ? '✔' : price}</span></button>`;
     return `<div class="card" style="background:#fef3c7;color:#92400e;font-weight:800;font-size:13px">🧪 Test store. Purchases are simulated and no money is charged.</div>
-      <div class="vipcard"><b>👑 Coach's Club</b><p>+1 training slot · +1 staff slot · +1 career slot · 25 Coins a day</p>
+      <div class="vipcard"><b>👑 Coach's Club</b><p>+1 training slot · +1 career slot · 25 Coins a day</p>
         <button class="btn full ${vip ? 'sec2' : 'pri'}" data-act="buy" data-v="vip">${vip ? 'Active · ' + Math.ceil((a.vipUntil - C.now()) / 864e5) + ' days left (extend +30)' : 'Join · $4.99 / month'}</button></div>
       <h3 class="jh">Packs</h3>${row('buypack', 'starter', '🎒', 'Starter Pack', C.rwText(C.PACKS.starter.r) + ' · once only', '$1.99', L.cos.includes('starter'))}
       ${row('buypack', 'pass', '🎟', 'Season Pass premium', 'Premium rewards for this 30-day pass', '$9.99', C.pass().prem)}
       ${row('buypack', 'xp', '📗', 'Coach XP bundle', C.rwText(C.PACKS.xp.r), '$2.99')}${row('buypack', 'clinic', '🎫', 'Clinic Credit pack', C.rwText(C.PACKS.clinic.r), '$2.99')}
       <h3 class="jh">Coins</h3>${['g100', 'g550', 'g1200'].map(k => row('buypack', k, '<i class="coin"></i>', C.PACKS[k].name, 'Speed-ups, coaching searches, agency scouts', C.PACKS[k].price)).join('')}
       <h3 class="jh">Permanent slots</h3>${row('buy', 'tslot3', '🏋', 'Extra training slot', 'A permanent 3rd training-plan slot', '$2.99', a.tslot3)}
-      ${row('buy', 'sslot3', '🧑🏫', 'Extra staff slot', 'A permanent 3rd coach on duty', '$2.99', a.sslot3)}
+      
       ${row('buy', 'tokens', '🎟', '3 Number Changes', 'Give players the number they want', '$0.99')}
       <h3 class="jh">Kits (cosmetic)</h3>${Object.keys(C.KITS).map(k => row('kit', k, C.KITS[k][0], C.KITS[k][1], C.kit() === k ? 'Wearing now' : L.cos.includes('kit_' + k) || k === 'classic' ? 'Owned: tap to wear' : 'Changes how your team looks, nothing else', C.KITS[k][2] || 'Free', false)).join('')}
       <div class="card fair"><b>⚖ Fair play promise</b><p>Money buys time and convenience, never results. No paid match wins, no attribute points past a player's potential, no buying players directly. Free players can reach everything.</p></div>`;

diff --git a/sw.js b/sw.js
@@ -1,8 +1,8 @@
 // Club FC offline cache. Bump VERSION when you publish a new build.
-const PREFIX = 'clubfc-v108';
-const VERSION = 'clubfc-v108-net2';
+const PREFIX = 'clubfc-v109';
+const VERSION = 'clubfc-v109-net1';
 const FILES = ['./', './index.html', './manifest.webmanifest', './css/style.css',
-  './js/errbar.js', './js/util.js', './js/economy-config.js', './js/data.js', './js/art-scenes.js', './img/manifest.json', './js/speedup.js', './js/cpass.js', './js/testscen.js', './js/cycle.js', './js/program.js', './js/state.js', './js/build.js', './js/names.js', './js/art-faces.js', './js/players.js', './js/squad.js', './js/recruit.js', './js/engine.js', './js/season.js', './js/tactics.js', './js/match.js', './js/staff.js', './js/playbook.js', './js/career.js', './js/liveops.js', './js/medical.js', './js/home.js', './js/icons.js', './js/campus-meta.js', './js/campus-env.js', './js/stadium-paint.js', './js/tower-paint.js', './js/art-campus.js', './js/ui.js', './js/jobs.js', './js/help.js', './js/ad.js', './js/screens.js', './js/meta.js', './js/map.js', './js/progress.js', './js/gear.js', './js/academic.js', './js/levelup.js', './js/research.js', './js/main.js',
+  './js/errbar.js', './js/util.js', './js/economy-config.js', './js/data.js', './js/art-scenes.js', './img/manifest.json', './js/speedup.js', './js/cpass.js', './js/testscen.js', './js/cycle.js', './js/b109.js', './js/program.js', './js/state.js', './js/build.js', './js/names.js', './js/art-faces.js', './js/players.js', './js/squad.js', './js/recruit.js', './js/engine.js', './js/season.js', './js/tactics.js', './js/match.js', './js/staff.js', './js/playbook.js', './js/career.js', './js/liveops.js', './js/medical.js', './js/home.js', './js/icons.js', './js/campus-meta.js', './js/campus-env.js', './js/stadium-paint.js', './js/tower-paint.js', './js/art-campus.js', './js/ui.js', './js/jobs.js', './js/help.js', './js/ad.js', './js/screens.js', './js/meta.js', './js/map.js', './js/progress.js', './js/gear.js', './js/academic.js', './js/levelup.js', './js/research.js', './js/main.js',
   './icon-192.png', './icon-512.png', './apple-touch-icon.png'];
 
 // Network first, so a new upload shows up as soon as the page is opened online.

diff --git a/js/cpass.js b/js/cpass.js
@@ -131,12 +131,12 @@
   // the Coaches' Office level needed for promotion from this tier (none at T1)
   C.gateNeed = () => { const car = C.car(); return car.tier > 1 ? C.TIER_GATE[car.tier - 1] : 0; };
   // the next step on the path to the gate: the next building the Coaches' Office needs, or the Office itself
-  C.gateStep = () => { const need = C.gateNeed(); if (!need || C.level('hq') >= need) return null;
+  C.gateStep = (to0) => { const need = to0 || C.gateNeed(); if (!need || C.level('hq') >= need) return null;   // 1.09 (QA-108): also used for the Pre-season Lv 5 target
     const hq = C.level('hq'), hqq = C.inQueue('hq'), to = hqq ? hqq.to + 1 : hq + 1; if (to > need) return { wait: 1 };
     for (const [b, l] of C.hqNeeds(to)) if (C.level(b) < l) { const q = C.inQueue(b); if (q) continue; const nx = C.level(b) + 1;
       return { k: b, text: `Upgrade the ${B(b)} to Lv ${nx} (needed for ${B('hq')} Lv ${to})`, ok: C.readyArrow(b) && C.freeSlot() }; }
     if (hqq || C.hqNeeds(to).some(([b, l]) => C.level(b) < l)) return { wait: 1 };
-    return { k: 'hq', text: `${B('hq')} → Lv ${to}: ${to === need ? 'needed for promotion' : 'on the way to Lv ' + need + ' for promotion'}`, ok: C.readyArrow('hq') && C.freeSlot() }; };
+    return { k: 'hq', text: `${B('hq')} → Lv ${to}: ${to === need ? (to0 ? 'a Pre-season task' : 'needed for promotion') : 'on the way to Lv ' + need + (to0 ? '' : ' for promotion')}`, ok: C.readyArrow('hq') && C.freeSlot() }; };
   // once the gate is reached: the lowest useful building (on-pitch first), then research
   C.otherStep = () => { if (!C.freeSlot()) return null;
     const lv = k => C.level(k), can = k => C.BUILDINGS[k] && lv(k) > 0 && C.readyArrow(k) && (k === 'hq' || lv(k) < lv('hq'));

diff --git a/js/main.js b/js/main.js
@@ -10,7 +10,7 @@
     if (col) { r.setProperty('--school', col.c1); r.setProperty('--school2', lum(col.c2) > .55 ? (lum(col.c1) < .5 ? col.c1 : '#ea580c') : col.c2); } };
 
   let e2 = null;
-  C.BUILD = 'CLUB FC 1.08.01 · 24 Nov 2026';
+  C.BUILD = 'CLUB FC 1.09 · 25 Nov 2026';
   // actions that spend something: show a preview first, act only once confirmed
   const NEEDS_OK = { signjob: 1, firstpick: 1, buyweekly: 1, buydeal: 1, buy: 1, buypack: 1, cmanual: 1, clic: 1, ctrait: 1, treatc: 1, buykitc: 1, teamsess: 1, chire: 1 };
   function preview(a, v) {
@@ -310,7 +310,7 @@
   const ready = C.loadArtManifest ? C.loadArtManifest() : Promise.resolve();
   // 1.02.05 (QA-14): start loading and decoding the campus art during the title screen, so the map's first draw is complete
   ready.then(() => { try { if (C.car() && C.campusLayers) C.campusLayers(C.car()); } catch (e) { } });
-  C.fitScreen(); Promise.all([ready, new Promise(r => setTimeout(r, C.TITLE_MS))]).then(() => { C.booting = false; C.fitScreen(); C.render(); if (C.testScenLoaded) C.testScenLoaded(); });
+  C.fitScreen(); Promise.all([ready, new Promise(r => setTimeout(r, C.TITLE_MS))]).then(() => { C.booting = false; C.fitScreen(); C.render(); if (C.testScenLoaded) C.testScenLoaded(); if (C.staffRefund) C.staffRefund(); });
   const cs = C.$('#calstrip .next'); if (cs) cs.scrollIntoView({ inline: 'center', block: 'nearest' });
   // offline support; when a new upload takes over, reload once so the new version shows straight away
   if ('serviceWorker' in navigator && location.protocol.startsWith('http')) {

diff --git a/js/testscen.js b/js/testscen.js
@@ -75,7 +75,7 @@
     return `<div class="card" style="background:#fef3c7;color:#92400e;font-weight:800;font-size:13px">🧪 Loading a scenario replaces the game on this device. Your own save is backed up first, and <b>Restore my save</b> brings it back.</div>
       ${LIST.map(([id, name, sub]) => `<button class="lrow" data-act="tscen" data-v="${id}"><span class="li">🧪</span><span class="lt"><b>${name}</b><small>${sub}</small></span><span class="lr">›</span></button>`).join('')}
       ${at ? `<button class="btn full pri" data-act="tscenrestore" style="margin-top:10px">↩ Restore my save</button><p class="note">Backed up ${new Date(at).toLocaleString()}. Loading more scenarios keeps this backup.</p>` : '<p class="note">No backup yet: it\'s made when you load your first scenario.</p>'}
-      <p class="note">The test list for this build is TEST_1.08.md.</p>`;
+      <p class="note">The test list for this build is TEST_1.09.md.</p>`;
   });
   A.tscen = v => { const it = LIST.find(x => x[0] === v); if (!it) return;
     C.ui.open('Load scenario', () => `<div class="card"><p style="font-weight:800">${it[1]}</p><p class="note">${it[2]}</p></div>

diff --git a/js/playbook.js b/js/playbook.js
@@ -42,8 +42,9 @@
   // ---------- everything the Playbook and staff add, in one place ----------
   C.teamBonus = () => {
     const f = C.staffF, tac = f('tac') * .04;
-    return { sho: C.pbv('sho') + tac, def: C.pbv('def') + tac, pas: C.pbv('pas') + tac, gk: f('gk') * .06, oop: Math.min(.6, C.pbv('oop')), set: C.pbv('set'), late: C.pbv('late'),
-      inj: Math.min(.6, C.pbv('inj') + f('snc') * .3), drain: f('snc') * .08 };
+    const an = C.eff('video') * .001;   // 1.09: Analysis Suite, against the opponent it scouted
+    return { sho: C.pbv('sho') + tac + an, def: C.pbv('def') + tac + an, pas: C.pbv('pas') + tac + an, gk: f('gk') * .06, oop: Math.min(.6, C.pbv('oop')), set: C.pbv('set'), late: C.pbv('late'),
+      inj: Math.min(.6, C.pbv('inj') + f('snc') * .3 + C.eff('gym') * .01), drain: f('snc') * .08 };   // 1.09: the Gym's −1% injury chance a level
   };
   C.bonusLines = () => {
     const out = [];
